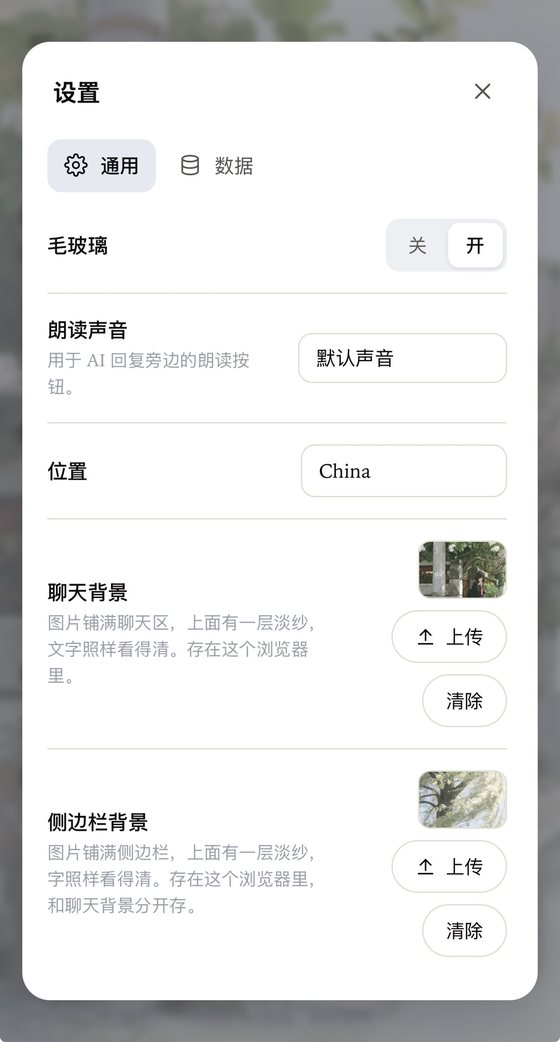
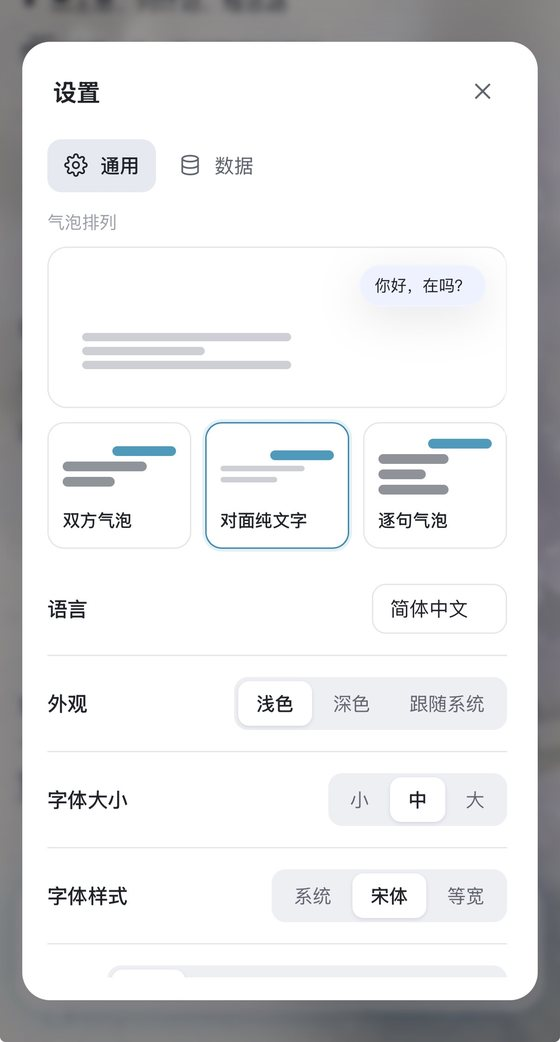
Refresh screenshots

diff --git a/README.md b/README.md
@@ -8,19 +8,9 @@
 
 上传自己的图片后：
 
-| 聊天界面 | 侧边栏 |
-| --- | --- |
-| ![聊天界面](docs/screenshots/showcase-chat.jpg) | ![侧边栏](docs/screenshots/showcase-sidebar.jpg) |
-
-| 设置 | 开屏页 |
-| --- | --- |
-| ![设置](docs/screenshots/showcase-settings.jpg) | ![开屏页](docs/screenshots/showcase-splash.jpg) |
-
-默认外观与配色字体：
-
-| 默认界面 | 配色与字体 |
-| --- | --- |
-| ![默认界面](docs/screenshots/01-overview.png) | ![配色与字体](docs/screenshots/04-palette-font.png) |
+| 聊天界面 | 设置 | 开屏页 |
+| --- | --- | --- |
+| ![聊天界面](docs/screenshots/showcase-chat.jpg) | ![设置](docs/screenshots/showcase-settings.jpg) | ![开屏页](docs/screenshots/showcase-splash.jpg) |
 
 ## 功能
 
@@ -31,7 +21,7 @@
 - **气泡排列**：设置顶部有实时预览，三张卡片直接切 —— 双方气泡 / 对面纯文字 / 逐句气泡
 - **颜色**：气泡、输入框、强调色各一个取色器，随时改
 - **气泡形状**：圆角方 / 圆 / 胶囊，透明度实 / 柔 / 透，描边无 / 细线 / 柔光，宽度窄 / 标准 / 宽；双方同步
-- **头像**：圆形或圆角方形，也可以整体隐藏
+- **头像形状**：圆形或圆角方形，也可以整体隐藏
 - **消息间距**：紧凑 / 标准 / 宽松
 - **毛玻璃**：开启后气泡与输入框变成半透明磨砂，配背景图更明显
 - **柔和光晕**：输入框周围一层淡淡的光
@@ -56,13 +46,13 @@
 
 ## 文件
 
-| 文件 | 内容 |
-| --- | --- |
-| `index.html` | 全部 HTML / CSS / JS，单文件 |
-| `LICENSE` | 上游 MIT 许可全文 |
-| `docs/screenshots/` | 界面截图 |
+| 文件                  | 内容                     |
+| ------------------- | ---------------------- |
+| `index.html`        | 全部 HTML / CSS / JS，单文件 |
+| `LICENSE`           | 上游 MIT 许可全文            |
+| `docs/screenshots/` | 界面截图                   |
 
-样式集中在 `index.html` 的 `<style>`：`--veil` / `--sb-veil` 控制白纱，`--msg-font` 控制字号，`html[data-palette]` 控制配色，`body.tf-*` 控制字体栈，`--bubble` / `--composer-bg` 控制气泡与输入框颜色，`--bubble-radius` / `--bubble-fill` 控制气泡形状，`body.glass` 控制毛玻璃，`#splash` 是开屏页。文案在 `<script>` 的 `I18N` 字典，中英两份。除 `api.deepseek.com` 外没有网络请求；无第三方库、CDN、外部字体或图片，字体走系统字体栈，语音能力由浏览器提供。
+样式集中在 `index.html` 的 `<style>`：`--veil` / `--sb-veil` 控制白纱，`--msg-font` 控制字号，`html[data-palette]` 控制配色，`body.tf-*` 控制字体栈，`--bubble` / `--composer-bg` 控制气泡与输入框颜色，`--bubble-radius` / `--bubble-fill` / `--bubble-max` / `--bubble-shadow` 控制气泡，`body.both-bubbles` / `body.sbs` 控制双方气泡与逐句，`body.glass` 控制毛玻璃，`#splash` 是开屏页。文案在 `<script>` 的 `I18N` 字典，中英两份。除 `api.deepseek.com` 外没有网络请求；无第三方库、CDN、外部字体或图片，字体走系统字体栈，语音能力由浏览器提供。
 
 ## 关于
 
